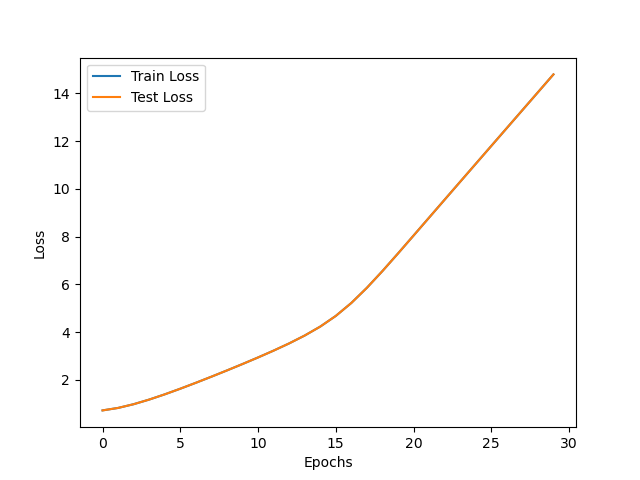
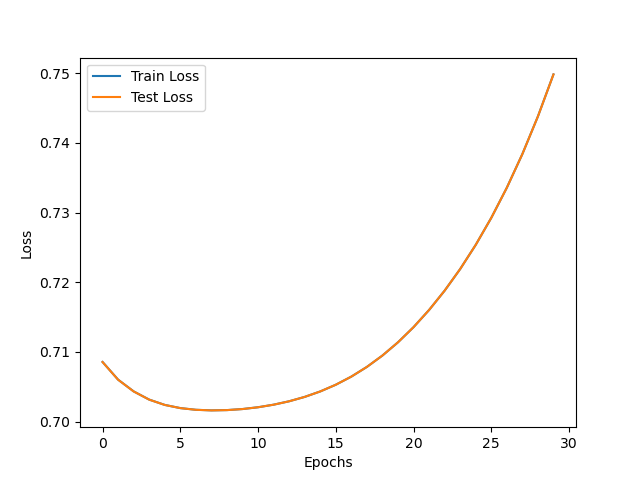
Forward and Backward propagation working smoothly

diff --git a/nn_template.py b/nn_template.py
@@ -4,11 +4,11 @@ np.random.seed(42)
 
 # Returns the ReLU value of the input x
 def relu(x):
-    return max(0, x)
+    return np.maximum(0, x)
 
 # Returns the derivative of the ReLU value of the input x
 def relu_derivative(x):
-    return (x>0).astype(int)
+    return (np.array(x)>0).astype(int)
 
 ## TODO 1a: Return the sigmoid value of the input x
 def sigmoid(x):
@@ -16,13 +16,12 @@ def sigmoid(x):
 
 ## TODO 1b: Return the derivative of the sigmoid value of the input x
 def sigmoid_derivative(x):
-    return sigmoid(x)*(1-sigmoid(x));
+    s=sigmoid(x)
+    return s*(1-s)
 
 ## TODO 1c: Return the derivative of the tanh value of the input x
 def tanh(x):
-    first = np.exp(x)
-    second = np.exp(-x)
-    return (first-second)/(first+second)
+    return np.tanh(x)
 
 ## TODO 1d: Return the derivative of the tanh value of the input x
 def tanh_derivative(x):
@@ -46,9 +45,9 @@ def get_activation_functions(activations):
     return activation_funcs, activation_derivatives
 
 class NN:
-    linear =[]
-    nonlinear = []
     def __init__(self, input_dim, hidden_dims, activations=None):
+        self.linear =[]
+        self.nonlinear = []
         '''
         Parameters
         ----------
@@ -84,10 +83,10 @@ class NN:
         prev=input_dim
         for dims in hidden_dims:
             self.weights.append(np.random.randn(dims,prev))
-            self.biases.append(np.zeros((dims,1)))
+            self.biases.append(np.ones((dims,1)))
             prev=dims
         self.weights.append(np.random.randn(1,prev))
-        self.biases.append(np.random.rand(1,1))
+        self.biases.append(np.ones((1,1)))
 
     def forward(self, X):
         '''
@@ -104,15 +103,14 @@ class NN:
         ## TODO 3a: Compute activations for all the nodes with the corresponding
         ## activation function of each layer applied to the hidden nodes
         prev=np.transpose(X)
-        linearcur=[]
-        nonlinearcur=[]
+        self.linear=[]
+        self.nonlinear=[]
         for i in range(0,len(self.weights)):
             z=np.dot(self.weights[i],prev) + self.biases[i]
             prev=self.activations[i](z)
-            linearcur.append(z)
-            nonlinearcur.append(prev)
-        self.linear=linearcur
-        self.nonlinear=nonlinearcur
+            self.linear.append(z)
+            self.nonlinear.append(prev)
+
         ## TODO 3b: Calculate the output probabilities of shape (N, 1) where N is number of examples
         output_probs=np.transpose(prev)
         return output_probs
@@ -134,20 +132,19 @@ class NN:
         ## sigmoid-based binary cross-entropy loss
         ## Hint: When computing the derivative of the cross-entropy loss, don't forget to 
         ## divide the gradients by N (number of examples)  
-        n=len(self.nonlinear)
         y=y.T
-        ycap = self.nonlinear[n-1]
-        loss=-((y/ycap)+((1-y)/(1-ycap)))/X.shape[0]
+        ycap = self.nonlinear[-1]
+        loss=-((y/ycap)-((1-y)/(1-ycap)))/X.shape[0]
         grad_weights_local=[]
         grad_biases_local=[]
-        for i in range(n - 1, -1, -1):
-            grad_biases_local.append(np.sum(loss*self.activation_derivatives[i](self.linear[i]),axis=1, keepdims=True))
+        for i in reversed(range(len(self.weights))):
+            dz=loss*self.activation_derivatives[i](self.linear[i])
+            grad_biases_local.append(np.sum(dz,axis=1, keepdims=True))
             if i==0:
-                grad_weights_local.append(np.dot((loss*self.activation_derivatives[i](self.linear[i])),X))
+                grad_weights_local.append(np.dot(dz,X))
             else:
-                grad_weights_local.append(np.dot((loss*self.activation_derivatives[i](self.linear[i])),self.nonlinear[i-1].T))
-
-            loss=np.dot(self.weights[i].T,loss*(self.activation_derivatives[i](self.linear[i])))
+                grad_weights_local.append(np.dot(dz,self.nonlinear[i-1].T))
+            loss=np.dot(self.weights[i].T,dz)
 
         ## TODO 4b: Next, compute gradients for all weights and biases for all layers
         ## Hint: Start from the output layer and move backwards to the first hidden layer
